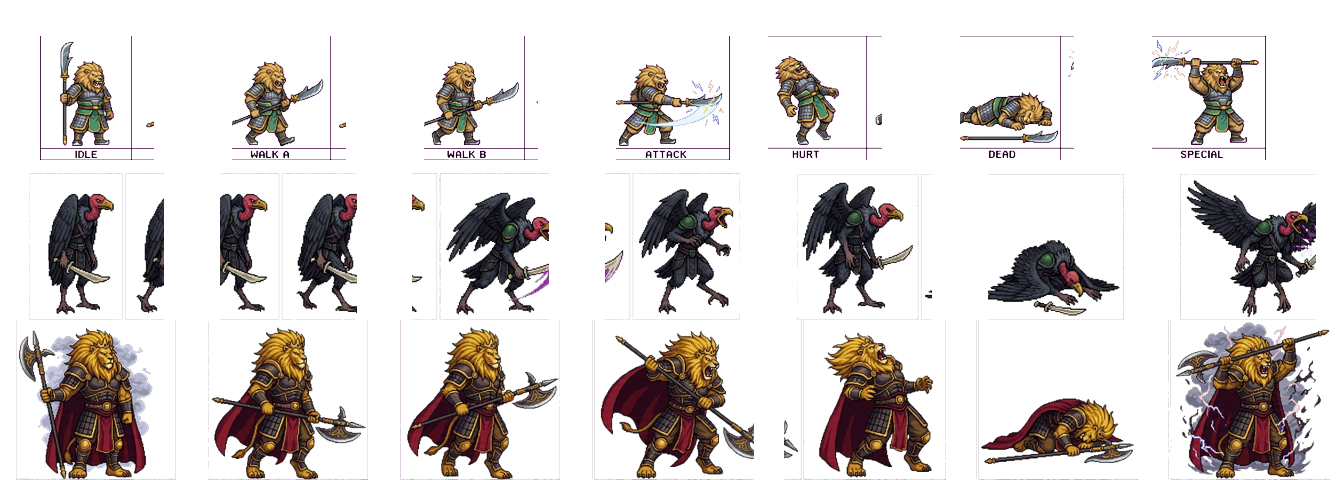
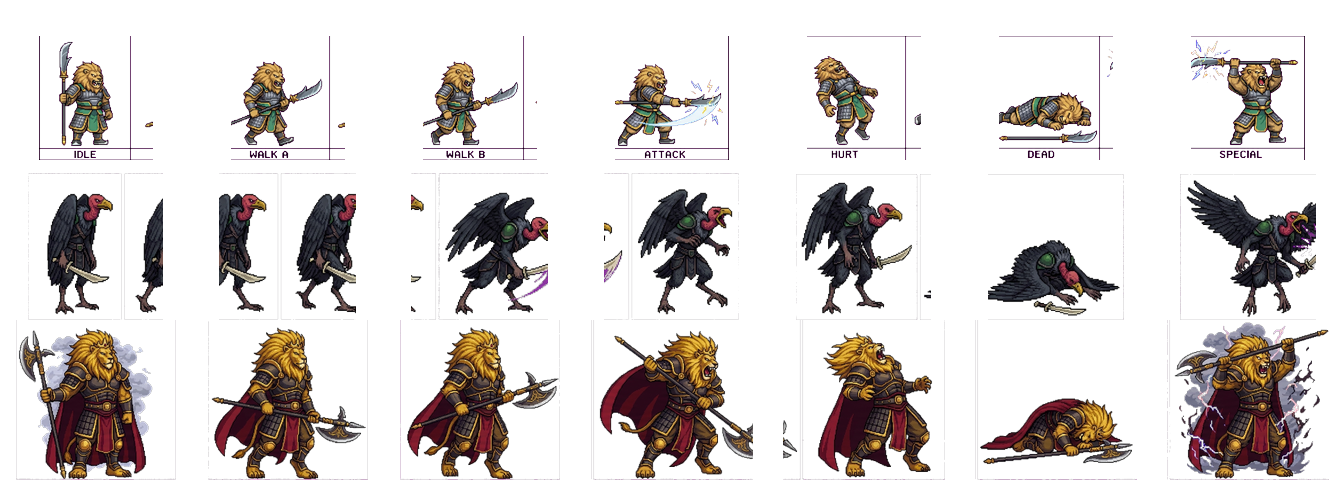
Normalize L3-L5 enemy atlases: kill bobbing, sinking, sideways teleport
L3-L5 atlases were AI-generated as monolithic 1344x480 images. Each cell was
drawn independently, so animation frames had wildly different body heights
and centers. Because the engine bottom-anchors each cell to enemy.y, that
read in-game as:

* L4 boss walk1 h=141 vs walk2 h=109 -> 32px head-bob per step
* L4 mob1 attack h=84 vs idle h=147 -> body "shrinks into the ground"
* L5 row0 hurt/dead/spec center_x=57 vs idle 97 -> sideways teleport

Add tools/normalize_enemy_atlas.py to re-paste each cell with:
* a unified "stand height" across idle/walk1/walk2 per row (kills bobbing)
* a floor of 78% of stand-height for attack/hurt/special (kills sinking)
* a floor of 30% for dead frames (kills L3 row0 disappearing-corpse bug)
* bottom-aligned, horizontally bbox-centered placement per cell

Apply to assets/enemies/03,04,05 in place. L1/L2 are already correct
(composed via build_atlas_animated.py from per-frame sprites) and untouched.
Engine code unchanged: still bottom-anchors each 192x160 cell at enemy.y.

Originals backed up under assets/enemies/_originals/ (gitignored — git
history holds the same bits).

diff --git a/tools/normalize_enemy_atlas.py b/tools/normalize_enemy_atlas.py
@@ -1,0 +1,271 @@
+#!/usr/bin/env python3
+"""Normalize 7-col x 3-row enemy atlases so animation frames don't bob/shrink/teleport.
+
+Background
+----------
+L1/L2 atlases were composed via build_atlas_animated.py from per-frame sprites
+with a shared scale and feet-centroid alignment. They animate cleanly.
+
+L3/L4/L5 atlases are AI-generated single-shot 1344x480 images. Each cell was
+drawn independently, so:
+  * walk1 vs walk2 body heights differ by 20-30 px -> visible "bobbing"
+  * attack/hurt poses are 30-60% shorter than idle -> body "sinks" into ground
+    (the engine bottom-anchors each cell to enemy.y, so when the body shrinks
+    the head drops while feet stay glued, which reads as "sinking")
+  * hurt/dead frames are off-center horizontally -> sprite "teleports" sideways
+
+What this script does
+---------------------
+For each row independently:
+
+1. Compute a reference body height (`ref_h`) from the row. Default = the
+   median of {idle, walk1, walk2}; these are the stable "standing" poses.
+2. For each frame:
+     a. Find the tight alpha bbox.
+     b. Walk1/walk2 are equalized to a single shared "stand" height
+        (= idle, clamped to min(idle, max(walk1, walk2)) to avoid up-scaling
+        beyond source). Heights within +/- 4px of that target are left alone.
+     c. Attack / hurt / special are scaled UP only if their height drops below
+        SHRINK_FLOOR_FRAC * ref_h (default 0.78). Target height in that case
+        is SHRINK_FLOOR_FRAC * ref_h. We never scale a frame to be taller
+        than ref_h, and never up-scale by more than MAX_UPSCALE (1.45).
+     d. Dead frame is intentionally allowed to be short (ground pose) but is
+        forbidden from going BELOW DEAD_FLOOR_FRAC (0.30) of ref_h, so a
+        dead frame that is only 13 px tall (L3 row0) is bumped up to a
+        readable size. This avoids "vanished" enemies.
+     e. After scaling, paste back into the cell:
+          * Bottom-aligned to the cell's bottom row (feet on ground line).
+          * Horizontally centered on the bbox-center, then nudged so the
+            cell content is x-centered within CELL_W (engine also does
+            recenter via cellOffsets, but this is more stable).
+3. Save in place. Preserves the 1344x480 atlas size and the 192x160 cell
+   layout so the engine doesn't need any change.
+
+The script is idempotent in the sense that running it on an already-normalized
+atlas should produce only tiny pixel-level differences from re-encoding.
+"""
+from __future__ import annotations
+
+import argparse
+import statistics
+import sys
+from pathlib import Path
+from typing import Iterable
+
+import numpy as np
+from PIL import Image
+
+CELL_W, CELL_H = 192, 160
+COLS, ROWS = 7, 3
+COL_NAMES = ["idle", "walk1", "walk2", "attack", "hurt", "dead", "special"]
+ALPHA_THRESH = 16
+
+# How short an action frame is allowed to be relative to ref_h before we
+# scale it up to mask the shrink effect.
+SHRINK_FLOOR_FRAC = 0.78
+# How short a dead frame is allowed to be (it's OK for it to be short).
+DEAD_FLOOR_FRAC = 0.30
+# Cap how much we scale up a single frame; beyond this it gets blurry.
+MAX_UPSCALE = 1.45
+
+
+def cell_bbox(arr_alpha: np.ndarray, r: int, c: int) -> tuple[int, int, int, int] | None:
+    cy0, cy1 = r * CELL_H, (r + 1) * CELL_H
+    cx0, cx1 = c * CELL_W, (c + 1) * CELL_W
+    cell = arr_alpha[cy0:cy1, cx0:cx1]
+    if not cell.any():
+        return None
+    ys, xs = np.where(cell)
+    return int(xs.min()), int(ys.min()), int(xs.max()), int(ys.max())
+
+
+def extract_cell(img: Image.Image, r: int, c: int) -> Image.Image:
+    cx0, cy0 = c * CELL_W, r * CELL_H
+    return img.crop((cx0, cy0, cx0 + CELL_W, cy0 + CELL_H))
+
+
+def trim_to_bbox(cell: Image.Image) -> Image.Image | None:
+    arr = np.array(cell)
+    A = arr[..., 3] > ALPHA_THRESH
+    if not A.any():
+        return None
+    ys, xs = np.where(A)
+    return cell.crop((int(xs.min()), int(ys.min()), int(xs.max()) + 1, int(ys.max()) + 1))
+
+
+def scale_to_height(sprite: Image.Image, target_h: int) -> Image.Image:
+    sw, sh = sprite.size
+    if sh == 0:
+        return sprite
+    scale = target_h / sh
+    new_w = max(1, round(sw * scale))
+    new_h = max(1, target_h)
+    return sprite.resize((new_w, new_h), Image.Resampling.LANCZOS)
+
+
+def paste_into_cell(sprite: Image.Image) -> Image.Image:
+    """Bottom-aligned, horizontally centered.
+
+    NOTE: pastes WITHOUT the alpha mask argument so per-pixel alpha bytes are
+    copied verbatim. Using `paste(sprite, pos, sprite)` composites the sprite
+    over the transparent canvas via its own alpha, which crushes any
+    very-low-alpha (1-15) pixels to alpha=0 and silently strips fringe AA.
+    That triggered visible top-row clipping on cells whose original art had
+    soft top edges (e.g. L5 row2 idle).
+    """
+    cell = Image.new("RGBA", (CELL_W, CELL_H), (0, 0, 0, 0))
+    sw, sh = sprite.size
+    if sw > CELL_W or sh > CELL_H:
+        # Should not happen given clamps but guard anyway.
+        clamp = min(CELL_W / sw, CELL_H / sh)
+        sw2, sh2 = max(1, int(sw * clamp)), max(1, int(sh * clamp))
+        sprite = sprite.resize((sw2, sh2), Image.Resampling.LANCZOS)
+        sw, sh = sw2, sh2
+    x = (CELL_W - sw) // 2
+    y = CELL_H - sh
+    cell.paste(sprite, (x, y))
+    return cell
+
+
+def max_h_within_cell(w: int, h: int, cell_w: int = CELL_W, cell_h: int = CELL_H) -> int:
+    """Largest height a w x h sprite can take when uniform-scaled to fit cell_w x cell_h."""
+    if w <= 0 or h <= 0:
+        return 0
+    by_w = int(h * cell_w / w)
+    return min(cell_h, by_w)
+
+
+def normalize_row(img: Image.Image, arr_alpha: np.ndarray, r: int, verbose: bool = False) -> list[Image.Image]:
+    bboxes = [cell_bbox(arr_alpha, r, c) for c in range(COLS)]
+    heights = [(b[3] - b[1] + 1) if b is not None else 0 for b in bboxes]
+    widths = [(b[2] - b[0] + 1) if b is not None else 0 for b in bboxes]
+    # max-achievable height per frame when uniform-scaled to fit a cell.
+    max_h = [max_h_within_cell(w, h) for w, h in zip(widths, heights)]
+
+    idle_h = heights[0]
+    walk1_h, walk2_h = heights[1], heights[2]
+
+    # === Stand height: walks must agree, idle should be close. ===
+    # Pick the largest height that BOTH walk frames AND idle can reach (cell-fit).
+    # Use the *smaller* of {idle, walk1, walk2} as a starting point, then ensure
+    # each can be scaled up to it without overflowing.
+    stand_candidates = [h for h in (idle_h, walk1_h, walk2_h) if h > 0]
+    if stand_candidates:
+        stand_h = min(stand_candidates)
+        # Try to lift toward idle if both walks can reach it.
+        achievable = [max_h[i] for i in (0, 1, 2) if heights[i] > 0]
+        ceiling = min(achievable) if achievable else stand_h
+        # Stand height = something everyone can reach.
+        stand_h = min(idle_h or stand_h, ceiling)
+        # Don't shrink below the smallest stand frame's natural height.
+        stand_h = max(stand_h, min(stand_candidates))
+        # Final bounds.
+        stand_h = min(stand_h, CELL_H)
+    else:
+        stand_h = CELL_H
+
+    # Reference height for action-frame floor: the chosen stand height.
+    ref_h = stand_h
+
+    if verbose:
+        print(f"  row{r}: stand_h={stand_h} ref_h={ref_h} heights={heights} widths={widths} max_h={max_h}")
+
+    out_cells: list[Image.Image] = []
+    for c in range(COLS):
+        cell = extract_cell(img, r, c)
+        sprite = trim_to_bbox(cell)
+        if sprite is None:
+            out_cells.append(cell)
+            continue
+        sw, sh = sprite.size
+        target_h = sh  # default: leave alone
+        reason = ""
+
+        if c == 0:
+            # Idle: snap to stand_h to keep the standing pose consistent
+            # with walks. If idle was originally taller, gently shrink.
+            if abs(sh - stand_h) > 2 and stand_h > 0:
+                target_h = stand_h
+                reason = "idle->stand"
+        elif c in (1, 2):
+            # Walk frames: snap to stand_h. Always apply (kills bobbing).
+            if abs(sh - stand_h) > 2 and stand_h > 0:
+                target_h = stand_h
+                reason = "walk->stand"
+        elif c in (3, 4, 6):
+            # attack / hurt / special: forbid going below SHRINK_FLOOR_FRAC * ref_h.
+            floor = int(SHRINK_FLOOR_FRAC * ref_h)
+            if sh < floor:
+                # Up-scale, but never beyond what fits cell width or MAX_UPSCALE.
+                cap = min(max_h_within_cell(sw, sh), int(sh * MAX_UPSCALE), CELL_H)
+                target_h = min(floor, cap)
+                reason = "action-floor"
+        elif c == 5:
+            # Dead: allow short, but not absurdly short.
+            floor = int(DEAD_FLOOR_FRAC * ref_h)
+            if sh < floor:
+                cap = min(max_h_within_cell(sw, sh), int(sh * MAX_UPSCALE), CELL_H)
+                target_h = min(floor, cap)
+                reason = "dead-floor"
+
+        # Apply.
+        if target_h != sh and target_h > 0:
+            new_w = max(1, round(sw * (target_h / sh)))
+            if new_w > CELL_W:
+                clamp = CELL_W / new_w
+                target_h = max(1, int(target_h * clamp))
+                new_w = CELL_W
+            sprite = sprite.resize((new_w, target_h), Image.Resampling.LANCZOS)
+            if verbose:
+                print(f"    {COL_NAMES[c]:>7}: {sw}x{sh} -> {new_w}x{target_h} [{reason}]")
+
+        out_cells.append(paste_into_cell(sprite))
+
+    return out_cells
+
+
+def normalize_atlas(in_path: Path, out_path: Path, verbose: bool = False) -> None:
+    img = Image.open(in_path).convert("RGBA")
+    if img.size != (CELL_W * COLS, CELL_H * ROWS):
+        raise SystemExit(f"{in_path}: expected {CELL_W*COLS}x{CELL_H*ROWS}, got {img.size}")
+
+    arr = np.array(img)
+    A = arr[..., 3] > ALPHA_THRESH
+
+    out = Image.new("RGBA", img.size, (0, 0, 0, 0))
+    for r in range(ROWS):
+        cells = normalize_row(img, A, r, verbose=verbose)
+        for c, cell in enumerate(cells):
+            out.paste(cell, (c * CELL_W, r * CELL_H))
+
+    out_path.parent.mkdir(parents=True, exist_ok=True)
+    out.save(out_path, "PNG", optimize=True)
+    print(f"wrote {out_path}")
+
+
+def main(argv: list[str] | None = None) -> int:
+    p = argparse.ArgumentParser(description="Normalize enemy atlases (kill bobbing/sinking/teleport).")
+    p.add_argument("inputs", nargs="+", help="Input atlas PNG paths.")
+    p.add_argument("--in-place", action="store_true", help="Write back to the input path.")
+    p.add_argument("--out-dir", default=None, help="Write outputs to this dir (mutually exclusive with --in-place).")
+    p.add_argument("-v", "--verbose", action="store_true")
+    args = p.parse_args(argv)
+
+    if not args.in_place and not args.out_dir:
+        print("error: pass --in-place or --out-dir", file=sys.stderr)
+        return 2
+
+    for src in args.inputs:
+        srcp = Path(src)
+        if args.in_place:
+            outp = srcp
+        else:
+            outp = Path(args.out_dir) / srcp.name
+        if args.verbose:
+            print(f"normalizing {srcp}")
+        normalize_atlas(srcp, outp, verbose=args.verbose)
+    return 0
+
+
+if __name__ == "__main__":
+    sys.exit(main())